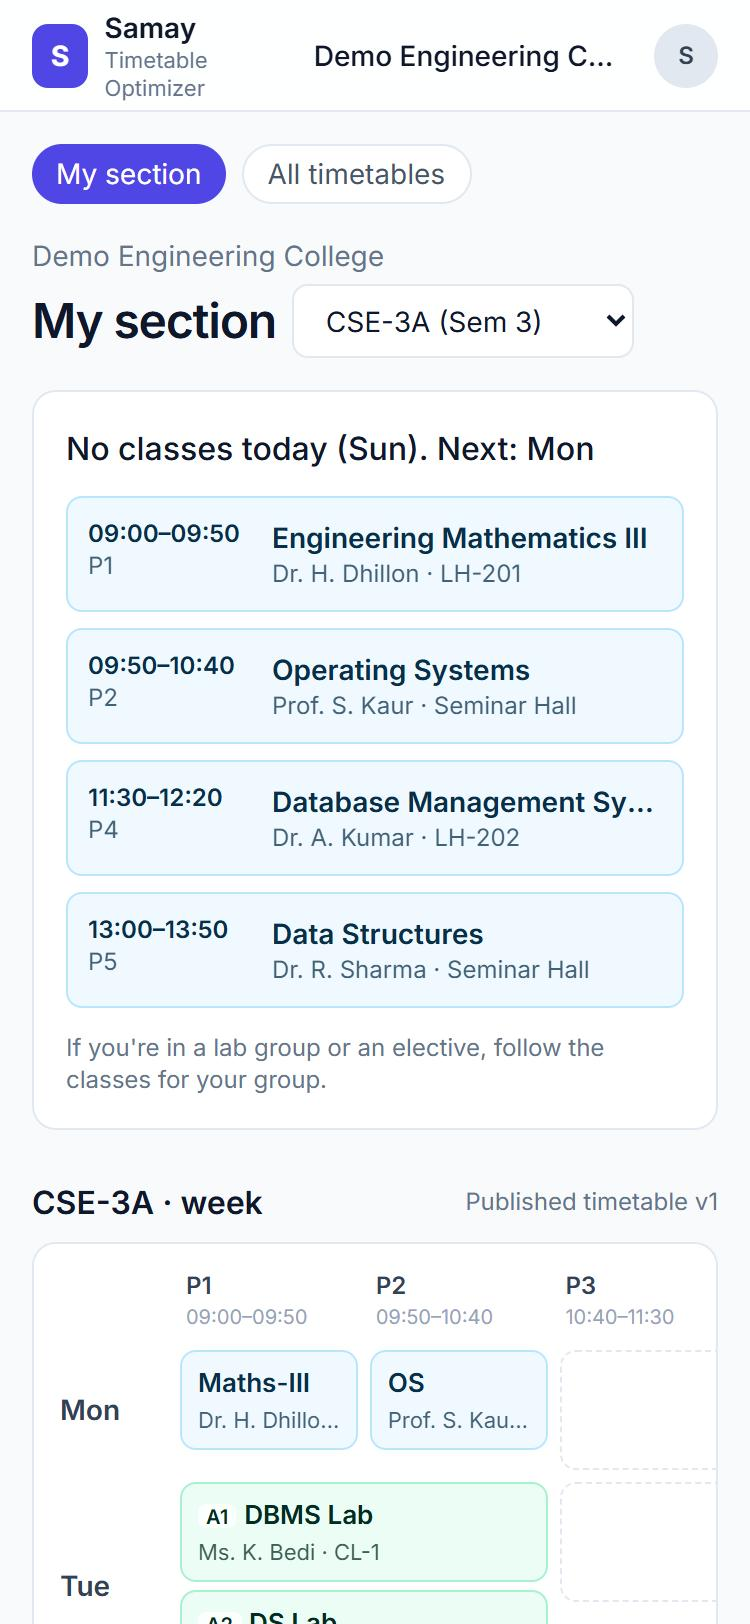
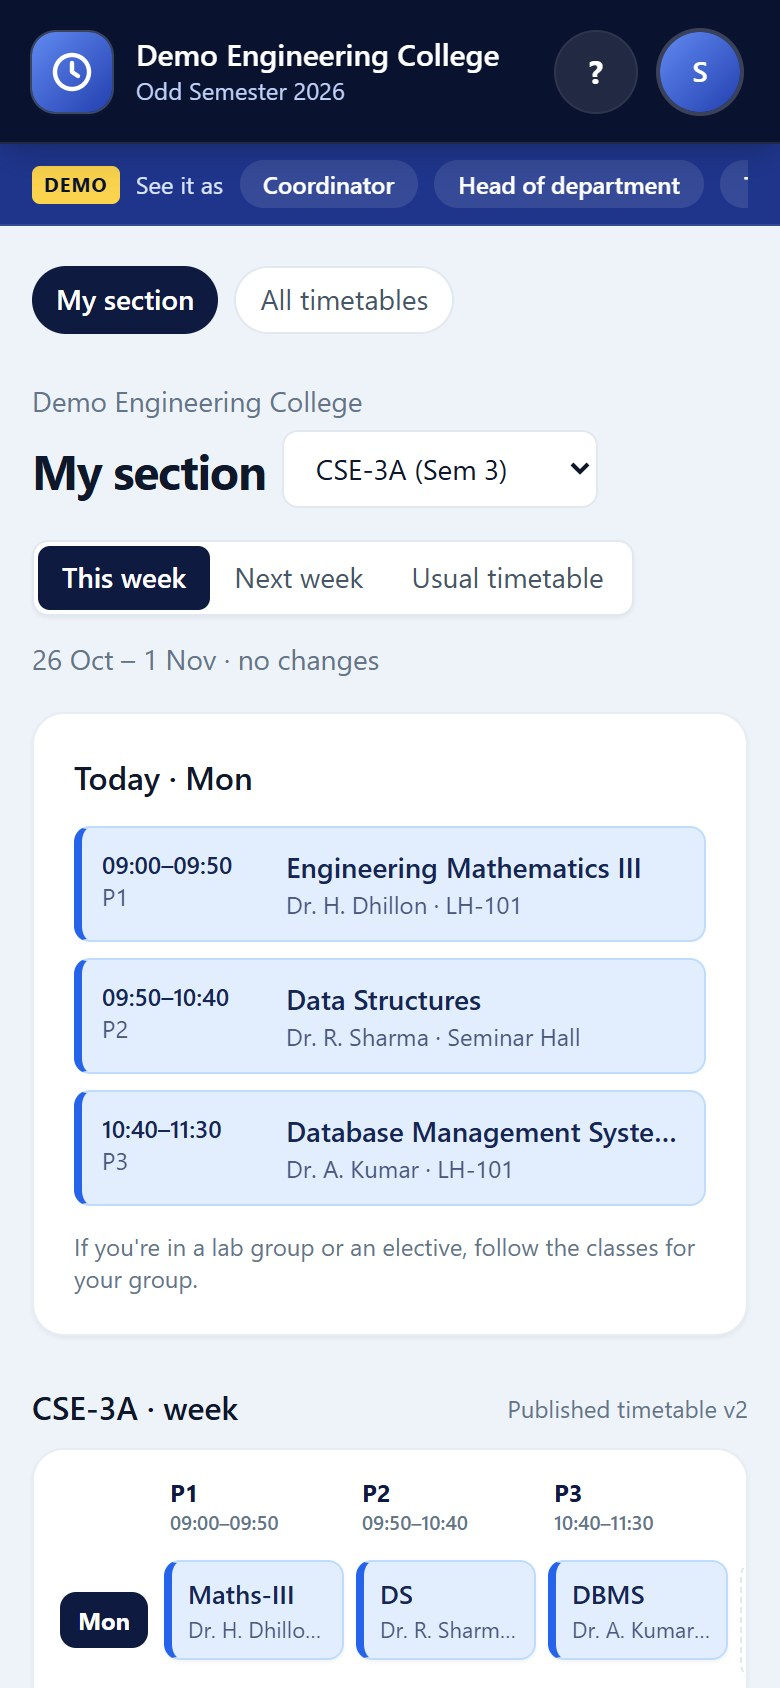
docs: up-to-date README, screenshots of the current design, requirements as built

diff --git a/web/index.html b/web/index.html
@@ -2507,7 +2507,7 @@ function dashboard() {
     ${card(`<div class="mb-3 flex items-center justify-between"><div class="font-medium">Departments${tip('Heads of department mark their department ready when its data is complete. You can change it here too.')}</div><span class="text-xs text-slate-500">Click a status to change it</span></div>
       <ul class="divide-y divide-slate-100">${c.departments.map(d => `
         <li class="flex items-center justify-between gap-2 py-2 text-sm"><span><span class="font-medium">${esc(d.name)}</span>
-          <span class="block text-xs text-slate-500">${(c.courses || []).filter(x => x.dept === d.id).length} courses · ${c.sections.filter(x => x.dept === d.id).length} sections · ${c.teachers.filter(t => t.dept === d.id).length} teachers</span></span>
+          <span class="block text-xs text-slate-500">${[[(c.courses || []).filter(x => x.dept === d.id).length, 'course'], [c.sections.filter(x => x.dept === d.id).length, 'section'], [c.teachers.filter(t => t.dept === d.id).length, 'teacher']].map(([n, w]) => `${n} ${w}${n === 1 ? '' : 's'}`).join(' · ')}</span></span>
         <button onclick="toggleDeptStatus('${esc(d.id)}')" title="Click to change" class="shrink-0 rounded-full px-2.5 py-0.5 text-xs font-medium ${d.status === 'review' ? 'bg-amber-50 text-amber-800 hover:bg-amber-100' : 'bg-emerald-50 text-emerald-700 hover:bg-emerald-100'}">${d.status === 'review' ? 'Needs review' : 'Ready'}</button></li>`).join('')
         || `<li class="py-3 text-sm text-slate-500">No departments yet. <button onclick="state.dataTab = 'departments'; go('data')" class="font-medium text-indigo-600 hover:underline">Add one</button></li>`}</ul>`)}
     ${card(`<div class="mb-3 font-medium">Your week</div>

diff --git a/docs/requirements.md b/docs/requirements.md
@@ -8,10 +8,10 @@ teaching loads and empty rooms. Samay generates a clash-free, readable timetable
 ## Users and roles
 | Role | What they do |
 |---|---|
-| Institution admin / Timetable coordinator | Set up college, time grid and rooms; generate, edit, publish |
-| HOD | Manage own department's teachers, subjects, sections, assignments; approve |
-| Teacher | View own timetable, set unavailability and preferences |
-| Student / viewer | Read-only section timetable (public link, mobile) |
+| Timetable coordinator | Sets up the college, its week and rooms; generates, edits and publishes; manages accounts and student access |
+| HOD | Keeps their own department's courses, sections, teachers, subjects and classes up to date; marks it ready; moves or cancels their department's classes |
+| Teacher | Sees their own week, marks periods they can't teach, moves or cancels their own classes |
+| Student | No account: a college code (link or QR poster) opens the published timetable on a phone |
 
 ## Privacy between colleges
 Many colleges use Samay, but each one is completely separate. A coordinator, HOD, teacher or student signs in to their
@@ -22,7 +22,7 @@ other colleges use Samay. Only the platform owner can see the list of colleges, 
 1. Institution setup: departments, time grid (days, periods, lunch and breaks)
 2. Master data: rooms (type, capacity, shared or department), teachers (max load, unavailability),
    subjects (L-T-P, lab type, block length), sections with **sub-sections A1/A2**, teaching assignments
-3. Excel/CSV import with error report by row; sample college
+3. Excel/CSV import with error report by row; a demo college and an empty practice college
 4. Pre-check with plain-English problems
 5. **CP-SAT generator** respecting all hard rules
 6. **Independent validator** with a "0 conflicts" badge
@@ -30,6 +30,7 @@ other colleges use Samay. Only the platform owner can see the list of colleges, 
 8. Manual move/swap with live clash warnings; lock and re-generate
 9. PDF and Excel export
 10. Login, roles, data kept separate for each college
+11. Samay picks a teacher for each class (from the subjects each teacher can teach), balancing loads
 
 ## Hard rules
 - No teacher, room, section or sub-section double-booked
@@ -38,26 +39,31 @@ other colleges use Samay. Only the platform owner can see the list of colleges, 
 - Exact weekly periods for each assignment
 - Labs in consecutive periods on one day, not crossing lunch or breaks
 - Teacher unavailability and max periods per day
+- While an elective group runs, its sections have no other class
+- Nothing is placed in a section's reserved times
 
 ## Soft rules (quality score)
 Subject spread across the week · few student and teacher gaps · A1/A2 labs side by side · balanced daily load ·
 teacher preferences · fair use of shared rooms.
 
-## Advanced (roadmap)
-- **Scheduling Assistant bot**: explains clashes, suggests 1–3 fixes, and can update the schedule itself, but
-  **always shows a preview first** (before/after diff, clash count and score change). Nothing is saved until the user clicks Apply;
-  Discard and Undo are available. Built on the Claude API with tool use over our own backend functions.
-- Infeasibility diagnosis, versions and comparison, shared-room fairness across departments, daily substitutions,
-  electives and combined classes, public links, QR codes and iCal, Punjabi/Hindi UI.
+## Built beyond the core
+- **AI assistant for every role** (Claude with tool use over our own functions): the coordinator's assistant explains
+  clashes and proposes fixes shown as a **preview** (nothing saved until Apply, Undo after); heads of department and
+  teachers ask it to move or cancel a class for one week or from now on; students ask look-up questions.
+- Versions (view, restore, delete), publishing, one-week and permanent changes after publishing with Undo.
+- Electives across sections and departments (big ones split into batches), reserved times, tutorials in lab groups.
+- Invites and password resets by one-time links; student code with share link and QR poster.
+- Guided first visit for every role; every screen has its own address (Back and refresh work).
+- Deployed on Render (free plan) with one-click demo accounts.
 
-## Hackathon sprint scope (2 hours)
-- ✅ Must work: generate a clash-free timetable for the sample college (with A1/A2 labs), validator badge,
-  section/teacher/room views, print to PDF.
-- Prototype only ("Coming soon"): data tables, pre-check panel, assistant bot drawer with preview and Apply.
-- Skipped for now: database, login, Excel import, drag-and-drop, deployment.
+## Still on the roadmap
+- Infeasibility diagnosis that names the smallest set of conflicting rules.
+- Daily substitutions (ranked substitute teachers), shared-room fairness report, compare versions side by side.
+- iCal export, Punjabi/Hindi interface, a super-admin page for the platform owner.
 
 ## Scalability
-- Solver pre-filters choices (room type, capacity, block length), so the model stays small; time limit and multiple workers.
-- Large colleges: solve by department with shared-room quotas, then a joint repair solve.
-- Production path: PostgreSQL, background solve jobs (RQ/Redis), stateless API containers behind a load balancer,
-  institution_id on every row for multi-tenancy.
+- The generator pre-filters choices (room type, capacity, block length) and limits each class to a few rooms spread
+  over all that fit, so the model stays small; it first finds any clash-free timetable, then improves it.
+- A time limit, a memory cap and a fixed number of threads keep it safe on a small server.
+- Production path: PostgreSQL, a job queue for generation, stateless API servers behind a load balancer,
+  college_id on every row for privacy between colleges.

diff --git a/README.md b/README.md
@@ -26,9 +26,11 @@ Built for **Hackathon 1, Punjab Jobs AI Bootcamp (J-PAL South Asia)**, individua
 - [Project structure](#project-structure)
 
 ## Screenshots
-| Sign-in with one-click demo accounts | Fixing a clash: preview before anything is saved | A student's phone |
-|---|---|---|
-| ![Sign-in](docs/screenshots/sign-in.jpg) | ![Fix preview](docs/screenshots/fix-preview.jpg) | ![Student phone view](docs/screenshots/student-phone.jpg) |
+| Home page | The coordinator's Home: five guided steps |
+|---|---|
+| ![Home page](docs/screenshots/home.jpg) | ![Coordinator's Home](docs/screenshots/dashboard.jpg) |
+| **Fixing a clash: preview before anything is saved** | **A student's phone** |
+| ![Fix preview](docs/screenshots/fix-preview.jpg) | ![Student phone view](docs/screenshots/student-phone.jpg) |
 
 ## The problem
 Most colleges still build timetables by hand each semester. Departments fit their sections, labs and teachers into the
@@ -75,6 +77,9 @@ Each college sees only its own data and never learns which other colleges use Sa
   templates: one file per list, or one workbook with a sheet per list (each Data tab picks its sheet by name).
 - Timetable by **section, teacher or room**: colour-coded, lab blocks merged, lab groups side by side, reserved times greyed out.
 - **Print / save as PDF** (A4) and **Excel export**: one sheet per section and per teacher, plus every class in one list.
+- **Samay picks the teachers:** give each teacher the subjects they can teach, leave a class's teacher as **Let Samay
+  choose**, and Samay assigns someone, balancing everyone's week within their limits.
+- **Start with an empty college:** a private practice college (no sign-up) to try everything from day one.
 - Works on phones.
 
 **Editing, sharing and the AI assistant**
@@ -130,8 +135,8 @@ python -m venv .venv
 ```bash
 .\.venv\Scripts\python -m uvicorn app.main:app --port 8000
 ```
-Open **http://localhost:8000**. The first start creates a local database with two demo colleges and their demo
-accounts (one-click on the sign-in page). On macOS/Linux use `.venv/bin/python` instead of `.\.venv\Scripts\python`.
+Open **http://localhost:8000**. The first start creates a local database with the demo college and its demo
+accounts (one-click under **Try the demo**). On macOS/Linux use `.venv/bin/python` instead of `.\.venv\Scripts\python`.
 
 - **Start over with clean demo data:** stop the server, then run `.\.venv\Scripts\python -m app.seed --reset`.
 - **Turn on the AI assistant (optional):** set your Anthropic API key in the terminal before starting the server, e.g.
@@ -227,9 +232,9 @@ Set as environment variables before starting the server.
 | `SAMAY_DEMO_LOGIN` | `1` | One-click demo accounts on the sign-in page. **Set `0` for a real college.** |
 | `SAMAY_SIGNUP` | `1` | Lets new colleges create an account |
 | `SAMAY_COOKIE_SECURE` | `0` | Set `1` when served over HTTPS |
-| `SAMAY_SOLVE_SECONDS` | `120` | The most one generation run takes (a college of about 25 sections and 50 teachers has a first timetable in about 20 s) |
+| `SAMAY_SOLVE_SECONDS` | `120` (`600` on Render) | The most one generation run takes (a college of about 25 sections and 50 teachers has a first timetable in about 20 s) |
 | `SAMAY_SOLVE_PATIENCE` | `10` | Stop improving once the timetable hasn't got better for this many seconds |
-| `SAMAY_MAX_ROOM_CHOICES` | `6` (`4` on Render) | Rooms each class may be placed in (the smallest that fit, rotated): smaller and faster to solve |
+| `SAMAY_MAX_ROOM_CHOICES` | `6` (`4` on Render) | Rooms each class may be placed in (spread over all rooms that fit, big ones too): uses less memory and solves faster |
 | `SAMAY_SOLVER_MEMORY_MB` | `200` on Render, else none | Most memory the generator may use; it then stops and keeps its best timetable |
 | `SAMAY_SOLVER_WORKERS` | `8` | CPU threads per run (use 1–2 on small servers) |
 | `ANTHROPIC_API_KEY` | – | Turns on the AI assistant (`SAMAY_ASSISTANT=0` turns it off again) |
@@ -253,7 +258,7 @@ for a demo; a real college needs a paid plan with a disk (set `SAMAY_DB` to a pa
 cd backend
 .\.venv\Scripts\python -m pytest
 ```
-236 tests cover:
+266 tests cover:
 - the clash checker (a passing and a failing case for every rule);
 - the generator on both demo colleges, electives, reserved times and locks;
 - the pre-check and the data checks;
